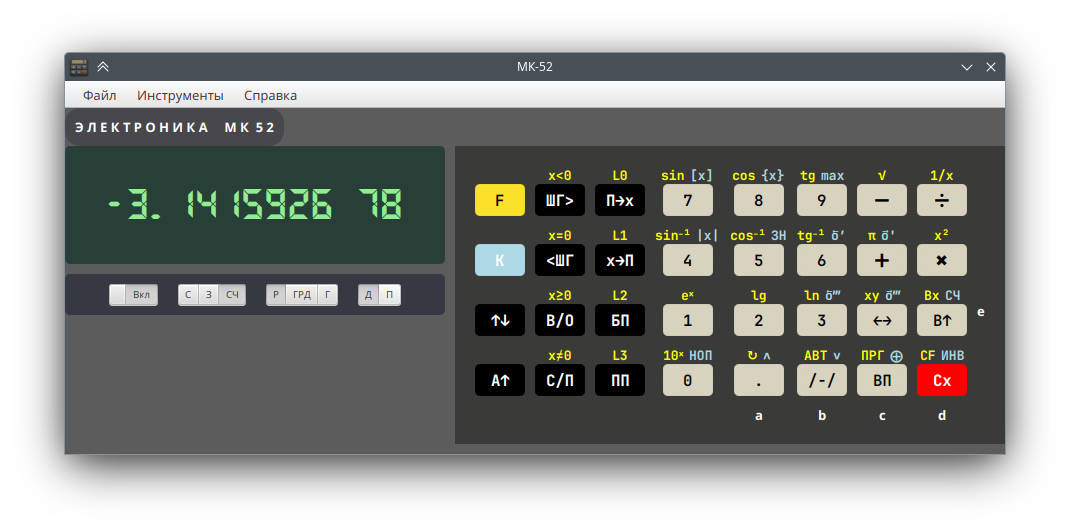
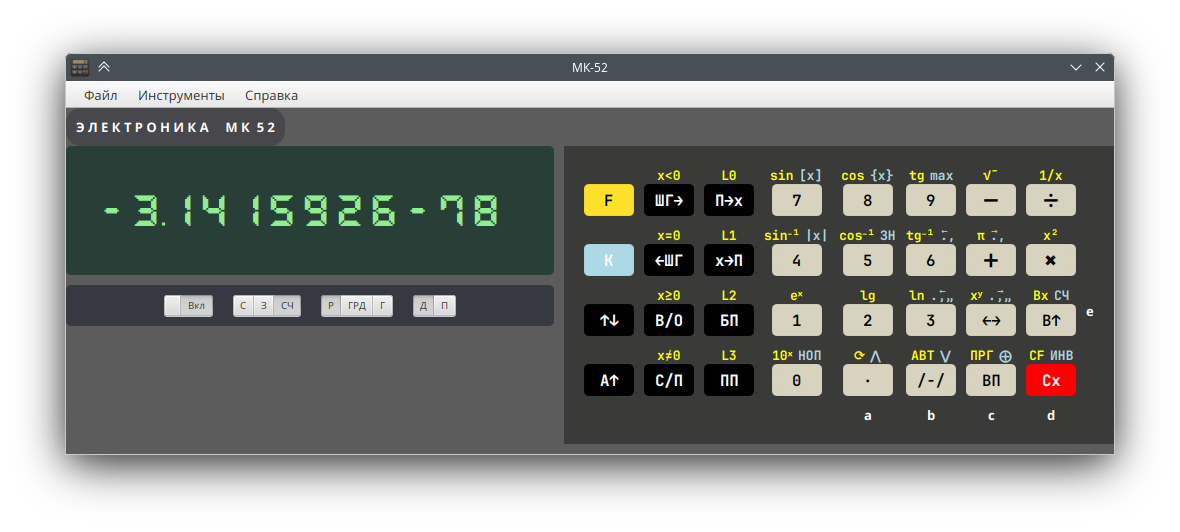
MK-52 0.0.19
* Fonts update

Changed region(s): [[0.0308, 0.0904, 0.9561, 0.8738]]

diff --git a/src/main/resources/main.css b/src/main/resources/main.css
@@ -103,16 +103,16 @@
 
 .lcd {
     -fx-font-weight: normal;
-    -fx-font-size: 30;
+    -fx-font-size: 36;
     -fx-text-fill: lightgreen;
-    -fx-font-family: 'Neat LCD';
+    -fx-font-family: 'Pixel LCD7';
 }
 
 .dotLcd {
     -fx-font-weight: normal;
-    -fx-font-size: 15;
+    -fx-font-size: 30;
     -fx-text-fill: lightgreen;
-    -fx-font-family: 'Neat LCD';
+    -fx-font-family: 'Pixel LCD7';
 }
 
 .switchPanel {

diff --git a/src/main/java/org/panteleyev/mk52/ui/Mk52Controller.java b/src/main/java/org/panteleyev/mk52/ui/Mk52Controller.java
@@ -1,7 +1,5 @@
-/*
- Copyright © 2025 Petr Panteleyev
- SPDX-License-Identifier: BSD-2-Clause
- */
+// Copyright © 2025 Petr Panteleyev
+// SPDX-License-Identifier: BSD-2-Clause
 package org.panteleyev.mk52.ui;
 
 import javafx.application.Platform;
@@ -89,6 +87,10 @@ public class Mk52Controller extends Controller {
         }
     };
 
+    private final String[] LCD_MAP = new String[] {
+              "0", "1", "2", "3", "4", "5", "6", "7", "8", "9", "-", "L", "C", "Г", "E", " "
+    };
+
     private final StackAndRegistersPanel stackAndRegistersPanel = new StackAndRegistersPanel();
     private final MemoryPanel memoryPanel = new MemoryPanel();
 
@@ -96,9 +98,9 @@ public class Mk52Controller extends Controller {
     private final Consumer<KeyboardButton> keyboardButtonConsumer = engine::processButton;
 
     private final Label[] digitCells = new Label[]{
-            new Label("F"), new Label("F"), new Label("F"), new Label("F"),
-            new Label("F"), new Label("F"), new Label("F"), new Label("F"),
-            new Label("F"), new Label("F"), new Label("F"), new Label("F")
+            new Label(" "), new Label(" "), new Label(" "), new Label(" "),
+            new Label(" "), new Label(" "), new Label(" "), new Label(" "),
+            new Label(" "), new Label(" "), new Label(" "), new Label(" ")
     };
     private final Label[] dotCells = new Label[]{
             new Label(" "), new Label(" "), new Label(" "), new Label(" "),
@@ -144,7 +146,7 @@ public class Mk52Controller extends Controller {
             var opacity = engine.automaticMode().get() ? 0.3 : 1.0;
 
             for (int i = 0; i < 12; i++) {
-                digitCells[i].setText(Long.toString(ri & 0xF, 16).toUpperCase());
+                digitCells[i].setText(LCD_MAP[(int)(ri & 0xF)]);
                 digitCells[i].setOpacity(opacity);
                 dotCells[i].setText((dots & 1) == 1 ? "." : " ");
                 dotCells[i].setOpacity(opacity);
@@ -191,11 +193,13 @@ public class Mk52Controller extends Controller {
         pane.getStyleClass().add("lcdPanel");
         pane.setMouseTransparent(true);
 
-        for (var l : digitCells) {
-            l.getStyleClass().add("lcd");
+        for (var cell : digitCells) {
+            cell.getStyleClass().add("lcd");
+            HBox.setMargin(cell, new Insets(0, 0, 0, -7));
         }
-        for (var d : dotCells) {
-            d.getStyleClass().add("dotLcd");
+        for (var cell : dotCells) {
+            cell.getStyleClass().add("dotLcd");
+            HBox.setMargin(cell, new Insets(0, 0, 0, -6));
         }
         var cellsPane = new HBox(0);
         cellsPane.getChildren().addAll(
@@ -217,9 +221,6 @@ public class Mk52Controller extends Controller {
                 digitCells[9], dotCells[9]
         );
         cellsPane.setAlignment(Pos.BOTTOM_LEFT);
-        for (var dc : digitCells) {
-            HBox.setMargin(dc, new Insets(0, 0, 0, -3));
-        }
 
         pane.setCenter(cellsPane);
         return pane;

diff --git a/src/main/java/org/panteleyev/mk52/Mk52Application.java b/src/main/java/org/panteleyev/mk52/Mk52Application.java
@@ -1,7 +1,5 @@
-/*
- Copyright © 2025 Petr Panteleyev <petr@panteleyev.org>
- SPDX-License-Identifier: BSD-2-Clause
- */
+// Copyright © 2025 Petr Panteleyev
+// SPDX-License-Identifier: BSD-2-Clause
 package org.panteleyev.mk52;
 
 import javafx.application.Application;
@@ -41,7 +39,7 @@ public class Mk52Application extends Application {
         files().initialize();
 
         Font.loadFont(
-                Mk52Application.class.getResource("/fonts/neat-lcd.ttf").toString(),
+                Mk52Application.class.getResource("/fonts/Pixel-LCD-7.ttf").toString(),
                 14
         );
         Font.loadFont(

diff --git a/README.md b/README.md
@@ -4,7 +4,7 @@
 [![JDK](https://www.panteleyev.org/badges/java-25.svg)](https://jdk.java.net/25/)
 [![JDK](https://www.panteleyev.org/badges/javafx-25.svg)](https://jdk.java.net/javafx25/)
 
-![МК-52](docs/main-window-big.png)
+![МК-52](docs/main-window.png)
 
 Проект носит исключительно развлекательный характер. Основная цель - более или менее похоже воспроизвести внешнее
 поведение микрокалькулятора МК-52 в соответствии с Руководством по эксплуатации (РЭ):

diff --git a/3rd-party.md b/3rd-party.md
@@ -1,0 +1,4 @@
+# Fonts
+
+- [JetBrains Mono](https://www.jetbrains.com/lp/mono/)
+- [Pixel LCD7](https://fonts-online.ru/fonts/pixel-lcd7)
